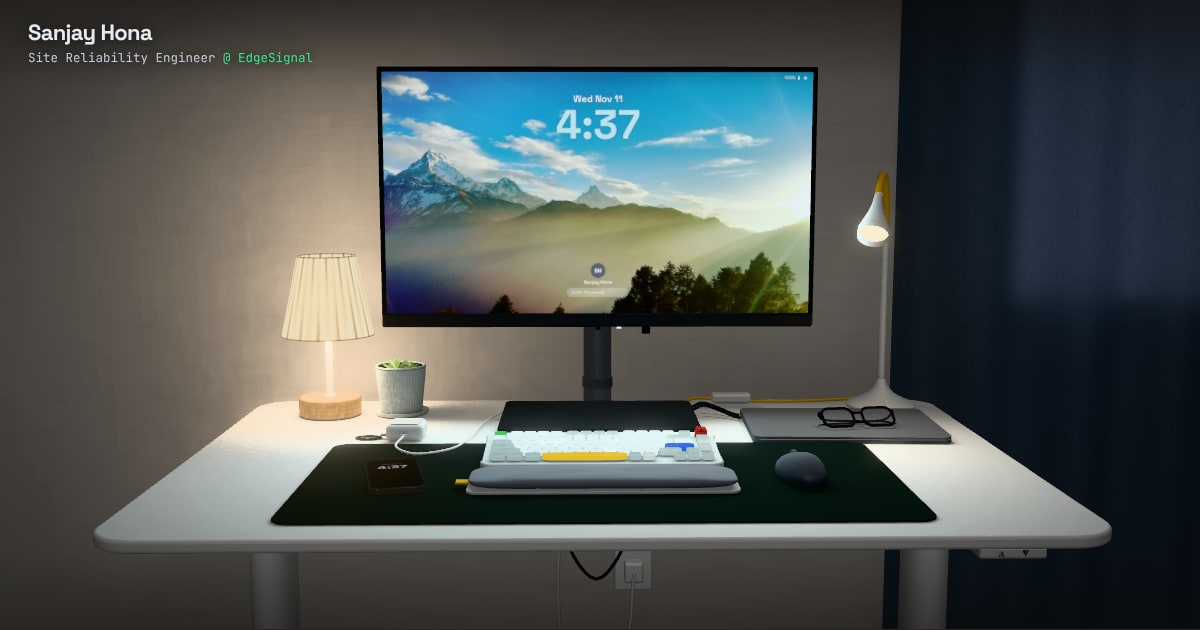
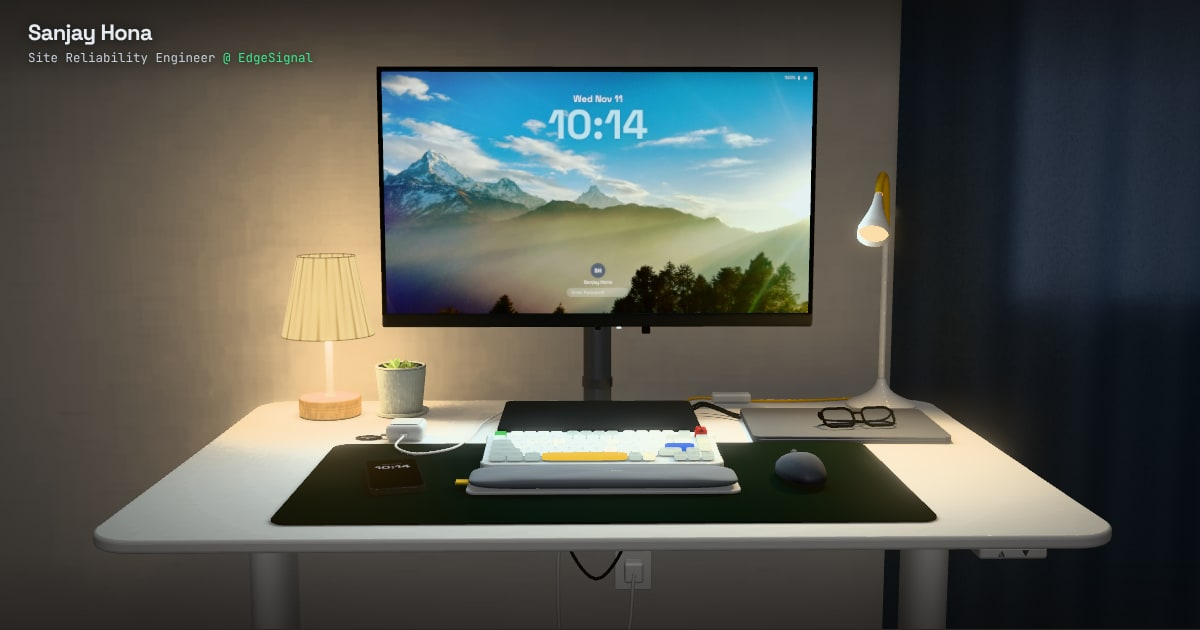
Warm yellow light from both lamps
The table lamp and the desk lamp now cast a warm yellow light, with the shade
and bulbs to match, and the desk lamp is bright enough to light the laptop
beside it. Colours and gains only; the lightmaps are unchanged. Share image
re-taken.

Claude-Session: https://claude.ai/code/session_01BBQxdt6iFnrwzxtkazm4Nm

diff --git a/src/scripts/rack.ts b/src/scripts/rack.ts
@@ -1624,8 +1624,8 @@ export async function initRack(
     for (const t of lmTex.flat()) t.needsUpdate = true;
   }
   // How bright each source is at full, and its colour.
-  const GAIN = [5, 170, 9, 5];
-  const TINT = [new THREE.Color(1, 0.8, 0.58), new THREE.Color(1, 0.82, 0.6), new THREE.Color(0.62, 0.8, 0.86), new THREE.Color(0.72, 0.8, 1)];
+  const GAIN = [6.2, 520, 9, 5];
+  const TINT = [new THREE.Color(1, 0.7, 0.34), new THREE.Color(1, 0.71, 0.35), new THREE.Color(0.62, 0.8, 0.86), new THREE.Color(0.72, 0.8, 1)];
   const DAYLIGHT = new THREE.Color(1, 0.97, 0.92);
   const lightNow = [0, 0, 0, 0];
   let lightSig = "";
@@ -2190,9 +2190,9 @@ export async function initRack(
     const R = lampRLevel;
     const S = ramp(1.9, 0.8);
     setLight(L, R, S, day);
-    shadeMat.color.setRGB(0.2 + 0.8 * L, 0.19 + 0.77 * L, 0.17 + 0.68 * L);
-    bulbLMat.color.setRGB(0.16 + 1.5 * L, 0.14 + 1.3 * L, 0.1 + 0.95 * L);
-    bulbRMat.color.setRGB(0.2 + 1.7 * R, 0.18 + 1.45 * R, 0.14 + 1.0 * R);
+    shadeMat.color.setRGB(0.2 + 0.8 * L, 0.19 + 0.66 * L, 0.17 + 0.36 * L);
+    bulbLMat.color.setRGB(0.16 + 1.7 * L, 0.14 + 1.2 * L, 0.1 + 0.5 * L);
+    bulbRMat.color.setRGB(0.2 + 1.9 * R, 0.18 + 1.3 * R, 0.14 + 0.5 * R);
     screenMat.color.setScalar(S);
     (scene.background as THREE.Color).copy(bgDark).lerp(bgLight, day);
     (scene.fog as THREE.Fog).color.copy(scene.background as THREE.Color);
